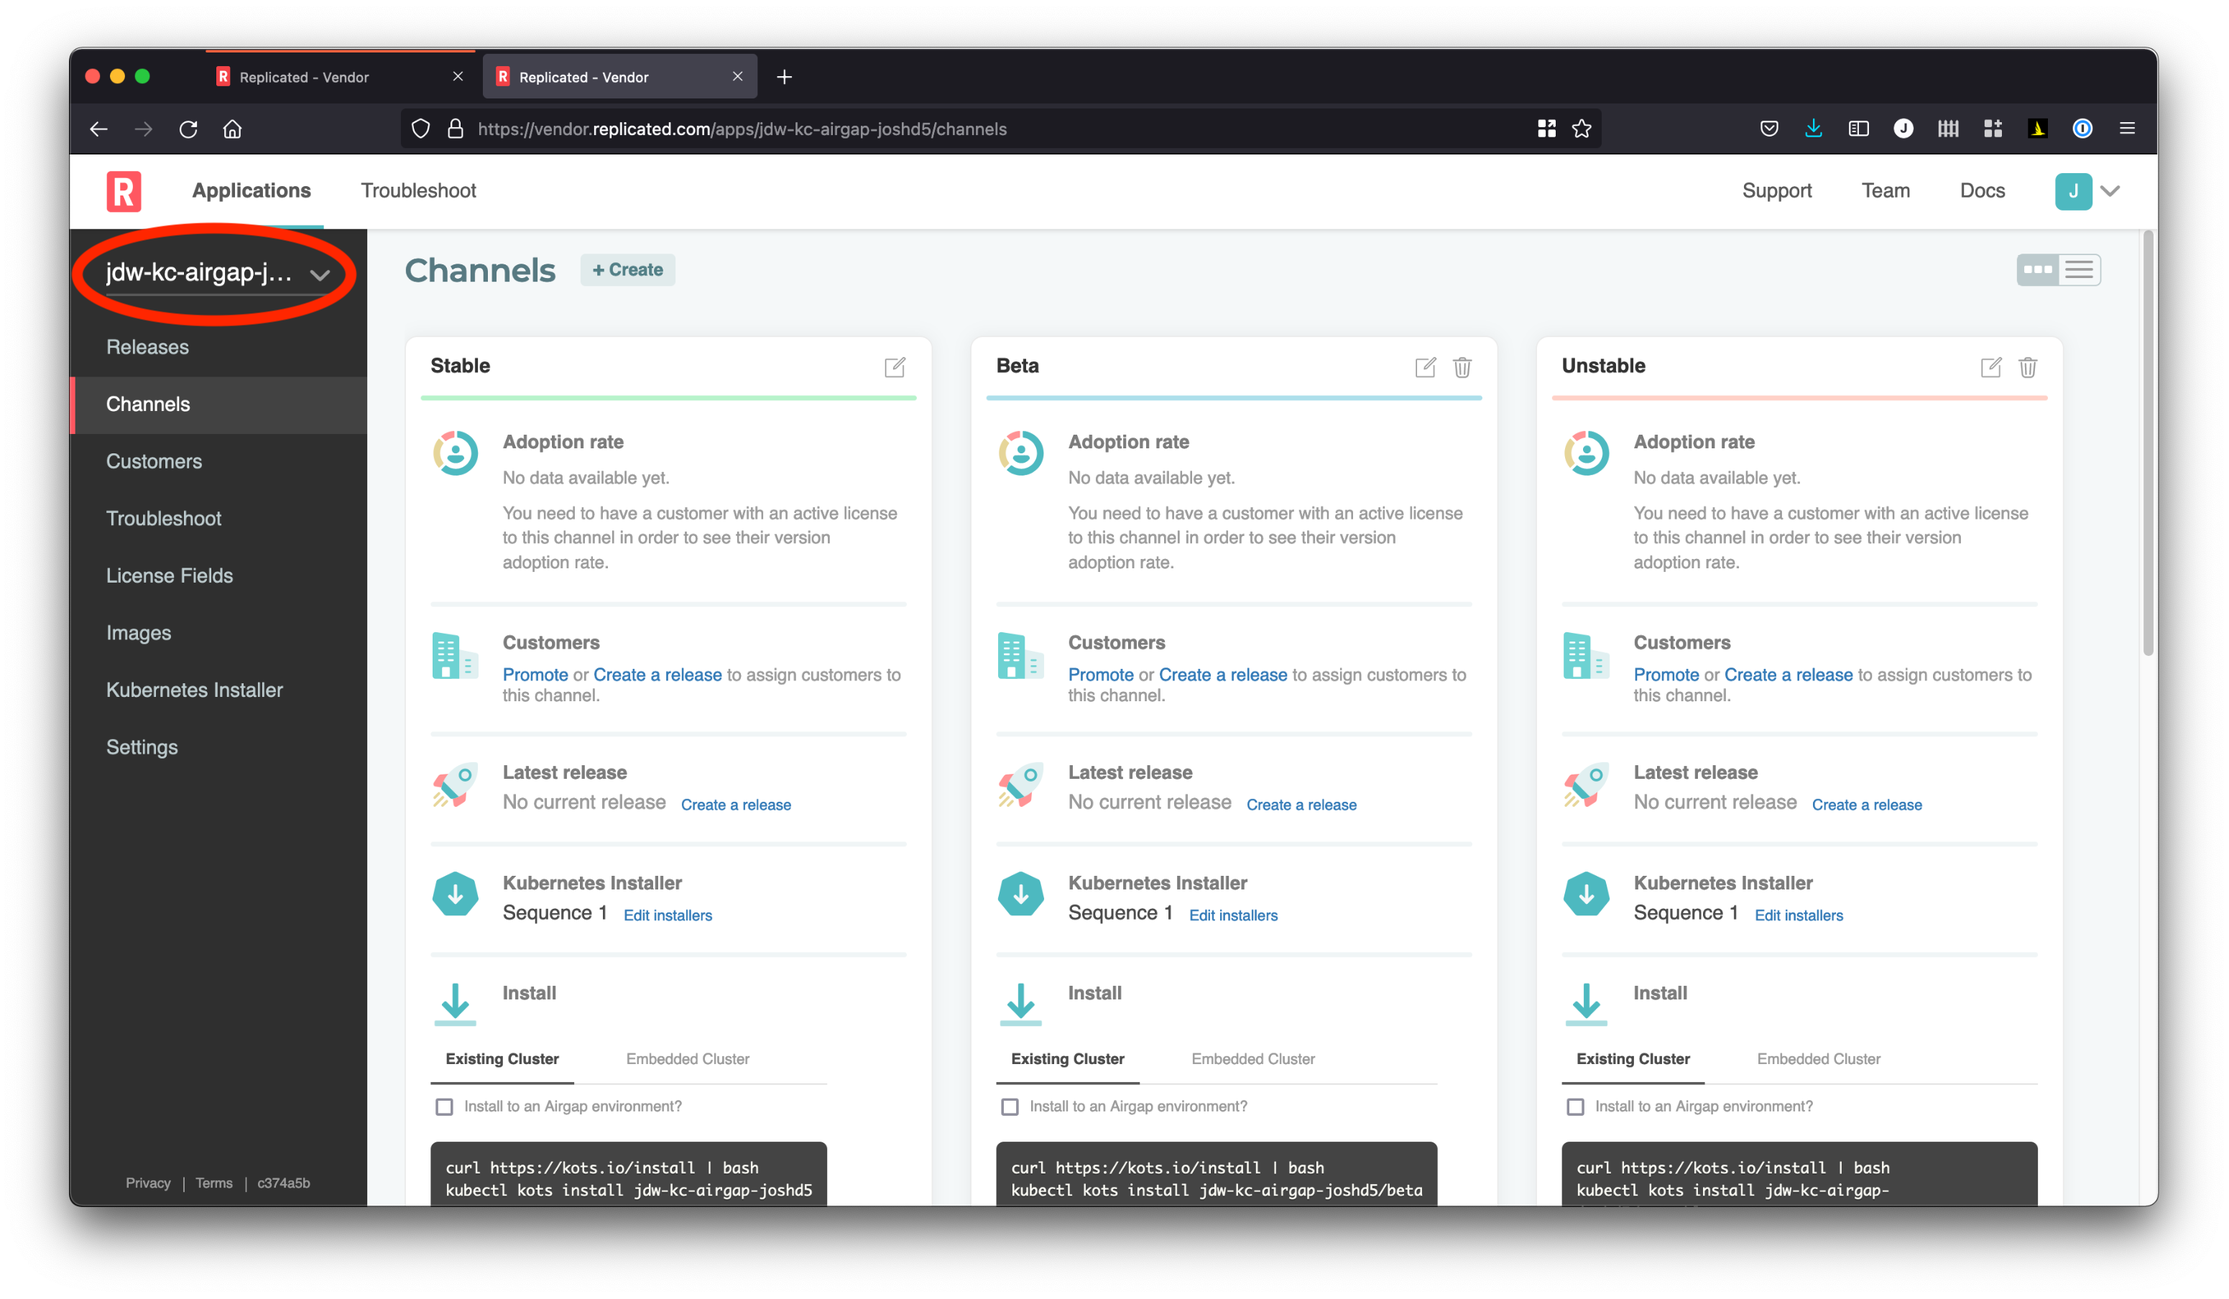
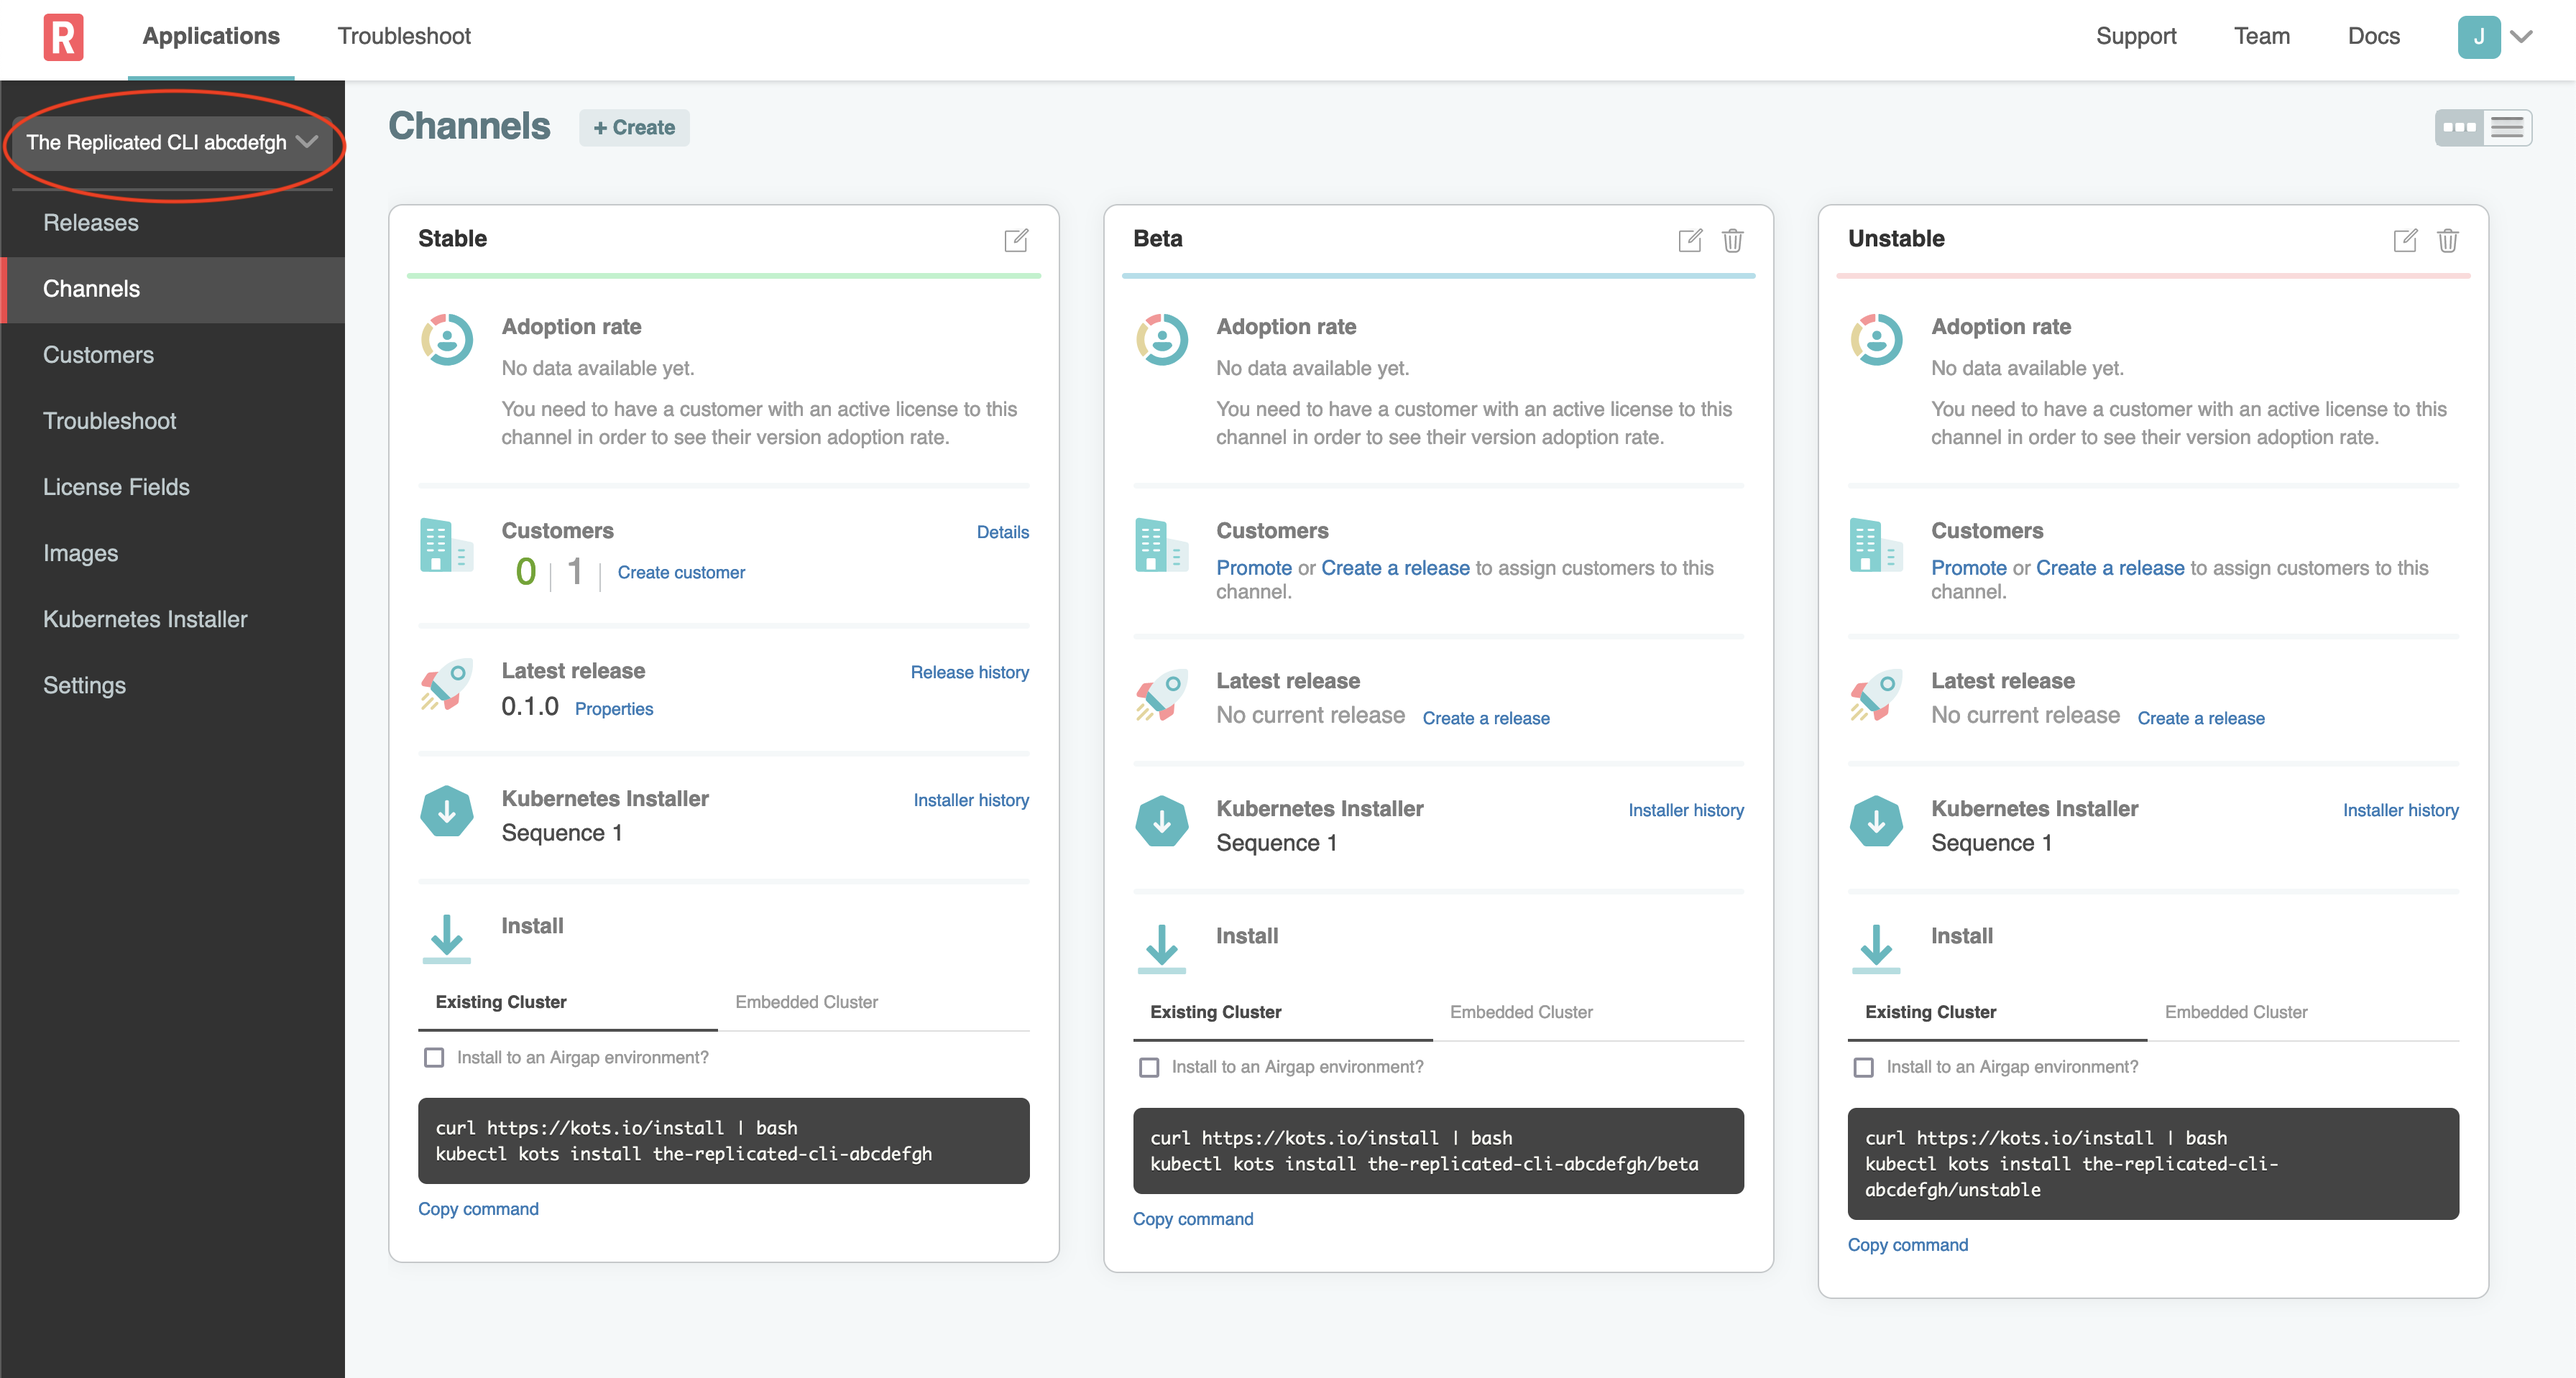
Fixes for replicated-cli track

diff --git a/instruqt/replicated-cli/03-releasing-your-updates/assignment.md b/instruqt/replicated-cli/03-releasing-your-updates/assignment.md
@@ -19,7 +19,7 @@ timelimit: 600
 ==============
 
 In the last challenge, we updated our release manifests to
-follow the adviced provided by the Replicated linter. We
+follow the advice provided by the Replicated linter. We
 need to release our changes in order for our customers to
 take advantage of them.
 
@@ -34,9 +34,8 @@ look at what channels are available.
 replicated channel ls
 ```
 
-You should get a list that has four or more channels in it. Our
-application has the default release channels as well as one
-channel we created for the lab. The names of your channels
+You should get a list that has 3 or more channels in it. Our
+application has the default release channels we created for the lab. The names of your channels
 should be the same as you see here. The other fields may
 vary.
 
@@ -45,10 +44,9 @@ ID                             NAME              RELEASE    VERSION
 2FK67d5b0y2ilwbAkouIm5Ly98U    Stable            1          0.0.1
 2FK67cR5l41w4FrJ17oQz1f0pDX    Beta              1          0.0.1
 2FK67bqiSUUpl0PpEHe8fZYuXXK    Unstable          2          Sample Track
-2FKLzwElQOFuHs6YlYEvZ6ncNEo    replicated-cli    3          The Replicated CLI
 ```
 
-We're going to release our changes on the `replicated-cli`
+We're going to release our changes on the `Stable`
 channel in the later steps.
 
 ### 2. Creating your first release
@@ -56,7 +54,7 @@ channel in the later steps.
 Let's create a release with our improved YAML files. We're going
 to create our release and make it available on the `Unstable` channel
 for internal user. After we review  the release, we'll promote
-it to our `replicated-cli` channel to simulate releasing to the customer.
+it to our `Stable` channel to simulate releasing to the customer.
 Make sure to change the version number (in my case, I'll go from
 `0.0.1` to `0.0.2`). You should keep it inline with the version you
  used in the unstable channel.
@@ -78,7 +76,7 @@ number.
 ```
 SEQUENCE    CREATED                 EDITED                  ACTIVE_CHANNELS
 4           2022-09-27T20:39:40Z    0001-01-01T00:00:00Z    Unstable
-3           2022-09-26T23:48:15Z    0001-01-01T00:00:00Z    replicated-cli
+3           2022-09-26T23:48:15Z    0001-01-01T00:00:00Z    Stable
 2           2022-09-26T21:39:47Z    0001-01-01T00:00:00Z
 1           2022-09-26T21:37:47Z    0001-01-01T00:00:00Z
 ```
@@ -89,7 +87,7 @@ and the active channels for older releases differ.
 ### 3. Promoting the release for customers
 
 To make the release available for customers, let's use our customer
-release channel `replicated-cli`. In a real use case, you might promote
+release channel `Stable`. In a real use case, you might promote
 through other channels like `Beta` before going to customers, but we'll
 skip ahead this time.
 
@@ -98,8 +96,8 @@ for your latest release (sequence `4` in my case). You're going to
 promote that release in the next command.
 
 ```
-replicated release promote [SEQUENCE] replicated-cli \
-  --version 0.0.2 --release-notes "Adds resource requests to our deployment"
+replicated release promote [SEQUENCE] Stable \
+  --version [NEW VERSION] --release-notes "Adds resource requests to our deployment"
 ```
 
 After promoting the release, take a look at your releases again
@@ -109,11 +107,11 @@ replicated release ls
 ```
 
 Your new release is at the top of the list is now active on two
-channels, `Unstable` and `replicated-cli`.
+channels, `Unstable` and `Stable`.
 
 ```
 SEQUENCE    CREATED                 EDITED                  ACTIVE_CHANNELS
-4           2022-09-27T20:39:40Z    0001-01-01T00:00:00Z    Unstable,replicated-cli
+4           2022-09-27T20:39:40Z    0001-01-01T00:00:00Z    Unstable,Stable
 3           2022-09-26T23:48:15Z    0001-01-01T00:00:00Z
 2           2022-09-26T21:39:47Z    0001-01-01T00:00:00Z
 1           2022-09-26T21:37:47Z    0001-01-01T00:00:00Z

diff --git a/instruqt/replicated-cli/04-installing-your-release/assignment.md b/instruqt/replicated-cli/04-installing-your-release/assignment.md
@@ -41,7 +41,7 @@ using the `replicated` command line tool. Let's get it using the
 CLI.
 
 ```
-replicated channel inspect replicated-cli
+replicated channel inspect Stable
 ```
 
 We're going to install into an existing Kubernetes cluster.
@@ -50,24 +50,24 @@ You'll find that one listed first, with the label `EXISTING`.
 
 ```
 ID:             2FKLzwElQOFuHs6YlYEvZ6ncNEo
-NAME:           replicated-cli
+NAME:           Stable
 DESCRIPTION:
 RELEASE:        4
 VERSION:        0.0.1
 EXISTING:
 
     curl -fsSL https://kots.io/install | bash
-    kubectl kots install chuck-instruqt-replicon-2022q3-replabs-replicated-com/replicated-cli
+    kubectl kots install the-replicated-cli-abcdefgh
 
 EMBEDDED:
 
-    curl -fsSL https://k8s.kurl.sh/chuck-instruqt-replicon-2022q3-replabs-replicated-com-replicated-cli | sudo bash
+    curl -fsSL https://k8s.kurl.sh/the-replicated-cli-abcdefgh | sudo bash
 
 AIRGAP:
 
-    curl -fSL -o chuck-instruqt-replicon-2022q3-replabs-replicated-com-replicated-cli.tar.gz https://k8s.kurl.sh/bundle/chuck-instruqt-replicon-2022q3-replabs-replicated-com-replicated-cli.tar.gz
-    # ... scp or sneakernet chuck-instruqt-replicon-2022q3-replabs-replicated-com-replicated-cli.tar.gz to airgapped machine, then
-    tar xvf chuck-instruqt-replicon-2022q3-replabs-replicated-com-replicated-cli.tar.gz
+    curl -fSL -o the-replicated-cli-abcdefgh.tar.gz https://k8s.kurl.sh/bundle/the-replicated-cli-abcdefgh.tar.gz
+    # ... scp or sneakernet the-replicated-cli-abcdefgh.tar.gz to airgapped machine, then
+    tar xvf the-replicated-cli-abcdefgh.tar.gz
     sudo bash ./install.sh airgap
 ```
 
@@ -78,7 +78,7 @@ The command you'll use will look like this:
 
 ```
 curl -fsSL https://kots.io/install | bash
-kubectl kots install [YOUR APP NAME]/replicated-cli
+kubectl kots install [YOUR APP NAME]
 ```
 
 We'll come back to that in a later step.
@@ -90,7 +90,7 @@ to install any KOTS application. We're going to use the command-line
 to both create a customer and to download their license file.
 
 ```
-replicated customer create --name "Replicant" --channel replicated-cli
+replicated customer create --name "Replicant" --channel Stable
 ```
 
 once the customer is created, we'll download their license file to use
@@ -108,7 +108,7 @@ because we've done some setup ahead of time.
 
 ```
 curl -fsSL https://kots.io/install | bash
-kubectl kots install [YOUR APP NAME]/replicated-cli
+kubectl kots install [YOUR APP NAME]
 ```
 
 This command installs the `kots` plugin to `kubectl` and then

diff --git a/instruqt/replicated-cli/01-prepare-for-access/assignment.md b/instruqt/replicated-cli/01-prepare-for-access/assignment.md
@@ -43,25 +43,15 @@ This exercise is designed to give you a sandbox to ensure you have a basic under
 🚀 Let's start
 ==============
 
-### 1. Check Your Email!
+### 1. Vendor Portal login
 
-If you previously already done any tracks and accepted the invite for the Vendor Portal, you can skip this and go to section 2.
+To access the Vendor Portal, you will need your participant id. If you go to the Shell tab, it will show you the username and password to be used for the Vendor tab. It will be of the following format:
+```
+username: [PARTICIPANT_ID]@replicated-labs.com
+password: [PARTICIPANT_ID]
+```
 
-You should have received an invite via email to log into https://vendor.replicated.com -- you'll want to accept this invite and set your password.
-
-**Important Note:** It is important to logout of any existing session in the Replicated vendor portal so that when clicking on the Labs Account invitation email link it takes you to a specific new registration page where you enter your name and password details.  If you get a login screen then this is probably the issue.
-
-The email should look like this:
-
-<p align="center"><img src="../assets/email-invite.png" width=600></img></p>
-
-Once you click on the button, it should open a browser to a page similar to this:
-
-<p align="center"><img src="../assets/create-account.png" width=600></img></p>
-
-Fill in the rest of the form and click on the **Create Account** button to get started.
-
-Once you have created your account you should land on the Channels. Channels allow you to manage who has access to which releases of your application.
+Once you have the credentials, you can login into the Vendor tab and you should land on the Channels. Channels allow you to manage who has access to which releases of your application.
 
 
 ### 2. Configure environment

diff --git a/instruqt/replicated-cli/02-verifying-manifests/assignment.md b/instruqt/replicated-cli/02-verifying-manifests/assignment.md
@@ -22,7 +22,7 @@ timelimit: 600
 We've created a set of manifests for you that configures
 the "Kubernetes Up and Running" sample application to
 deploy with Replicated. In the next few challenges we'll
-validate those manifests and create a a new application
+validate those manifests and create a new application
 you can deploy using Replicated.
 
 ### 1. Verifying manifests
